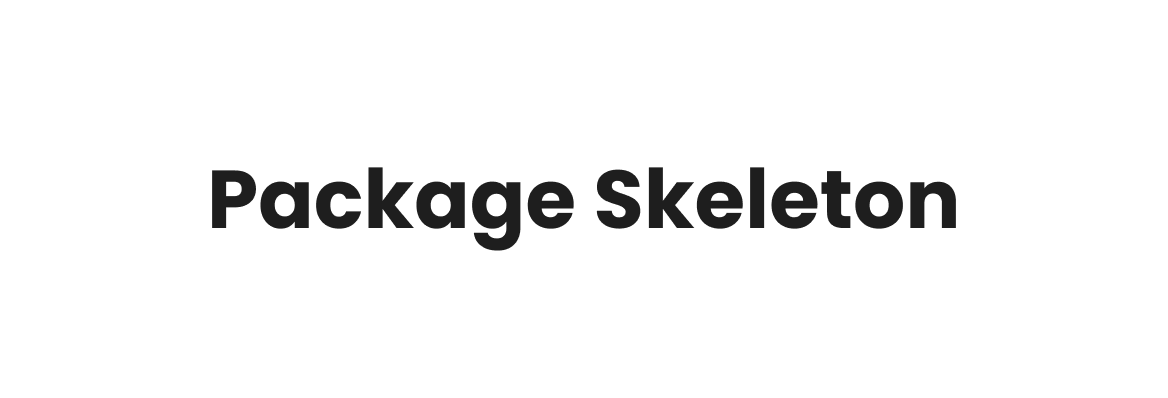
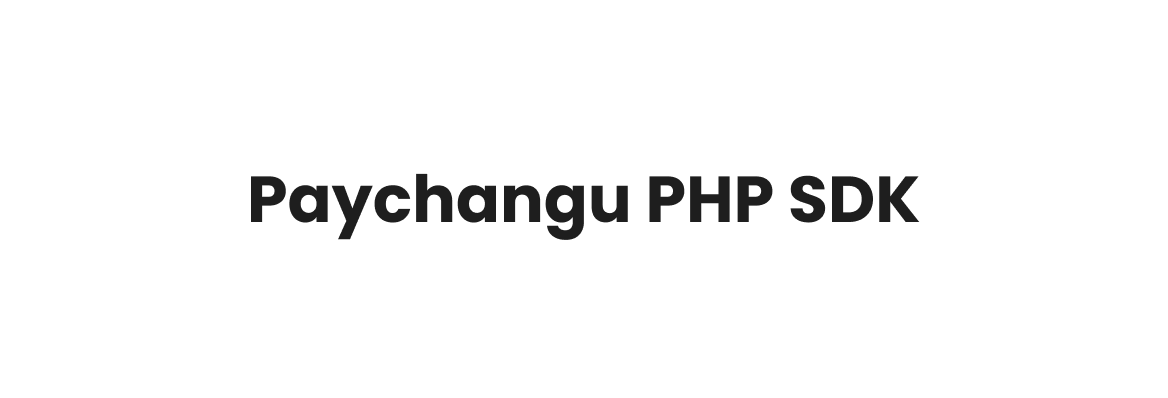
Chore: Updated readme.

Changed region(s): [[0.1541, 0.4221, 0.8322, 0.6332]]

diff --git a/README.md b/README.md
@@ -1,10 +1,30 @@
 <p align="center">
     <img src="art/banner.png" width="800" alt="Banner">
+    <p align="center">
+        <a href="https://github.com/codelabmw/paychangu-php/actions"><img alt="GitHub Workflow Status (master)" src="https://github.com/codelabmw/paychangu-php/actions/workflows/tests.yml/badge.svg"></a>
+        <a href="https://packagist.org/packages/codelabmw/paychangu-php"><img alt="Total Downloads" src="https://img.shields.io/packagist/dt/codelabmw/paychangu-php"></a>
+        <a href="https://packagist.org/packages/codelabmw/paychangu-php"><img alt="Latest Version" src="https://img.shields.io/packagist/v/codelabmw/paychangu-php"></a>
+        <a href="https://packagist.org/packages/codelabmw/paychangu-php"><img alt="License" src="https://img.shields.io/packagist/l/codelabmw/paychangu-php"></a>
+    </p>
 </p>
 
 ---
 
-Hello World, this is a PHP package skeleton with modern tooling for testing and modern code quality included.
+This is an open source PHP SDK for Paychangu payment gateway.
+
+> Requires PHP version: ^8.3
+
+## Installation
+
+You can install the package via composer:
+
+```bash
+composer require codelabmw/paychangu-php
+```
+
+## Usage
+
+Please see the [documentation](docs/README.md) for more information on how to use this package.
 
 ## Changelog
 
